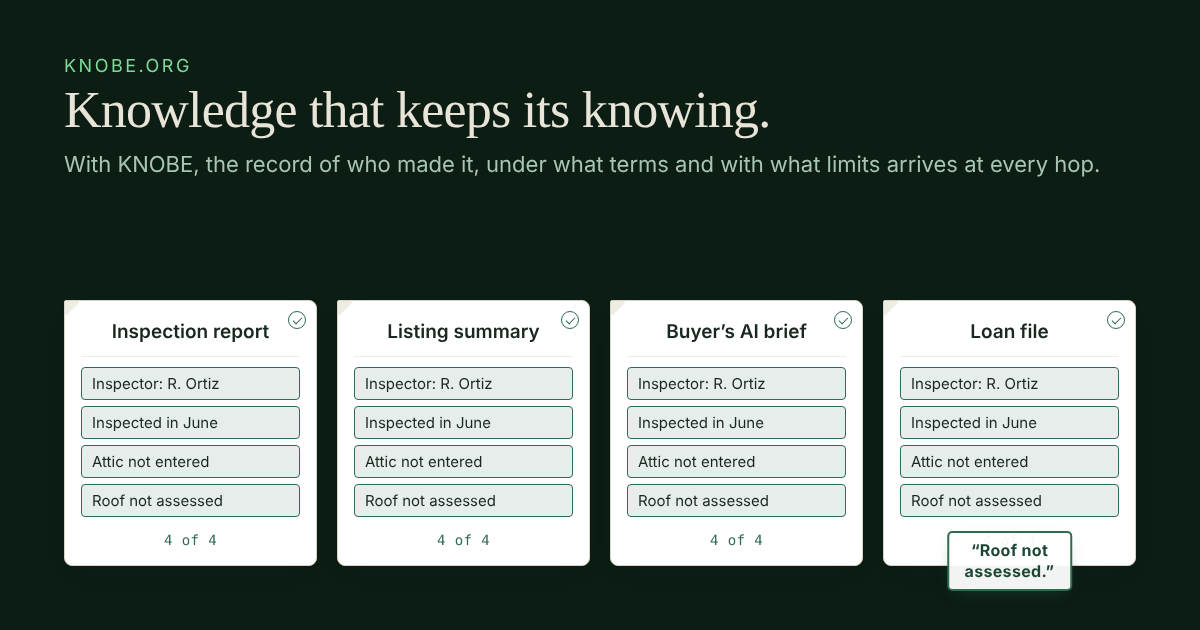
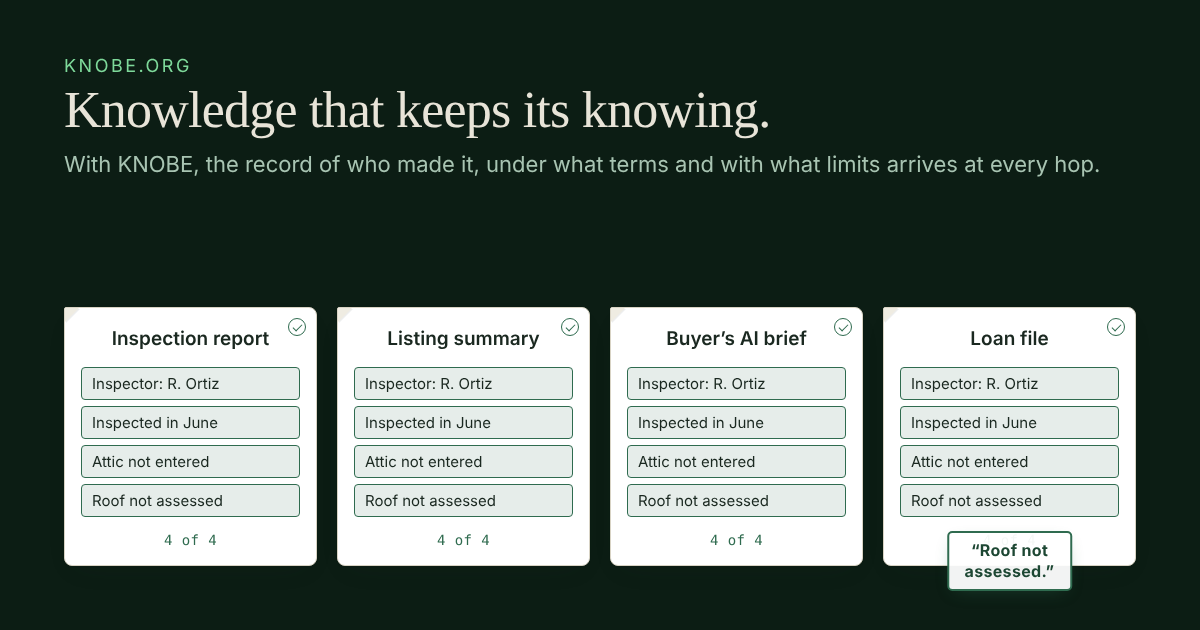
Scene realism pass: per-scene loss matrices, system labels, act reset on scene switch; hero grammar; equation gloss; per-door headings
Each scene now loses what a competent current system would actually lose:
the HR summary drops exactly one thing (the dispute); the working paper
keeps all four and the AI summary starts the loss; the citation survives
the research chain while the epistemics die. Stations are labeled with the
human-machine system they live in. Choosing a new scene reverts to the
Without act. Hero becomes 'Information is portable. The knowing that makes
it knowledge is not.' with a one-line gloss under the equation. Door pages
get differentiated headings.

Claude-Session: https://claude.ai/code/session_01DtjeGfW8HtYfQZWe1ngs6u

Changed region(s): [[0.0308, 0.4524, 0.9558, 0.573]]

diff --git a/site/stage.js b/site/stage.js
@@ -1,38 +1,48 @@
-/* knobe.org: the four-station illustration. Three scenes, two acts each.
-   knobeStage(root, { scenes: KNOBE_SCENES, start: 'home' })
-   Without KNOBE: station 0 keeps all four conditions, station 1 keeps the first two, stations 2 and 3 keep none.
-   With KNOBE: all four at every station, with a seal. */
+/* knobe.org: the four-station illustration. Five scenes, two acts each.
+   knobeStage(root, { start: 'home' })
+   Each scene carries its own loss matrix (keeps): what a competent current
+   system would realistically preserve at each station, act one. Act two
+   (With KNOBE) keeps everything and seals each station. */
 var KNOBE_SCENES=[
-  { key:'home', label:'A house', stations:['Inspection report','Listing summary','Buyer\u2019s AI brief','Loan file'],
+  { key:'home', label:'A house', stations:['Inspection report','Listing summary','Buyer’s AI brief','Loan file'],
+    systems:['report software','listing platform','AI assistant','loan file system'],
     chips:['Inspector: R. Ortiz','Inspected in June','Attic not entered','Roof not assessed'],
-    caption:'A home inspector writes up a house, with two limits on the record: the attic was not entered, the roof was not assessed. The listing agent summarizes the report. The buyer asks an AI for a brief. The brief goes into the loan file. Every step was reasonable. By the fourth, nobody knows the roof was never looked at.',
-    verdicts:{ without:'\u201cRoof in good condition.\u201d', withk:'\u201cRoof not assessed. Attic not entered.\u201d' } },
-  { key:'work', label:'A job', stations:['Manager\u2019s notes','HR summary','AI-drafted reference','Hiring decision'],
+    keeps:[[1,1,1,1],[1,1,0,0],[0,1,0,0],[0,0,0,0]],
+    caption:'A home inspector writes up a house, with two limits on the record: the attic was not entered, the roof was not assessed. The listing summary keeps the inspector and the date. The buyer’s AI brief keeps only the date. The loan file keeps nothing. Every step was reasonable. By the fourth, nobody knows the roof was never looked at.',
+    verdicts:{ without:'“Roof in good condition.”', withk:'“Roof not assessed. Attic not entered.”' } },
+  { key:'work', label:'A job', stations:['Manager’s notes','HR summary','AI-drafted reference','Hiring decision'],
+    systems:['notes app','HR system','AI writing tool','hiring committee'],
     chips:['Written by Priya','One quarter only','Disputed by Sam','Draft, not final'],
-    caption:'A manager writes notes on one quarter of someone\u2019s work. The notes are a draft, and the employee disputes a line. HR summarizes them. An AI drafts a reference from the summary. A hiring decision rests on the reference. Every step was reasonable. By the fourth, a disputed draft about one quarter reads as a settled judgment about a person.',
-    verdicts:{ without:'\u201cConsistently underperforms.\u201d', withk:'\u201cDraft. One quarter. Disputed.\u201d' } },
+    keeps:[[1,1,1,1],[1,1,0,1],[1,0,0,0],[0,0,0,0]],
+    caption:'A manager writes notes on one quarter of someone’s work. The notes are a draft, and the employee disputes a line. The HR summary is competent and loses exactly one thing: the dispute. The AI-drafted reference keeps only the author’s name. A hiring decision rests on the reference. By the fourth, a disputed draft about one quarter reads as a settled judgment about a person.',
+    verdicts:{ without:'“Consistently underperforms.”', withk:'“Draft. One quarter. Disputed.”' } },
   { key:'product', label:'A product', stations:['Lab test memo','Spec sheet','Retailer page','Support chatbot'],
-    chips:['Engineer: M. Lin','Batch 7 only','Tested at 20\u00b0C','Not for outdoor use'],
-    caption:'An engineer tests a device and writes a memo: batch 7 only, tested at 20\u00b0C, not for outdoor use. The spec sheet keeps the engineer\u2019s name and the batch. The retailer page keeps neither limit. The support chatbot, answering from the retailer page, tells a customer it is fine outdoors. Every step was reasonable. The chatbot was not wrong about the page it read; the page had already lost the knowing.',
-    verdicts:{ without:'\u201cYes, fine for outdoor use.\u201d', withk:'\u201cNot rated for outdoor use.\u201d' } },
+    systems:['lab system','product database','retail CMS','support bot'],
+    chips:['Engineer: M. Lin','Batch 7 only','Tested at 20°C','Not for outdoor use'],
+    keeps:[[1,1,1,1],[0,1,1,1],[0,0,0,0],[0,0,0,0]],
+    caption:'An engineer tests a device and writes a memo: batch 7 only, tested at 20°C, not for outdoor use. The spec sheet keeps every limit and drops only the engineer. The retailer page keeps none of it. The support chatbot, answering from the retailer page, tells a customer it is fine outdoors. The chatbot was not wrong about the page it read; the page had already lost the knowing.',
+    verdicts:{ without:'“Yes, fine for outdoor use.”', withk:'“Not rated for outdoor use.”' } },
   { key:'research', label:'A study', stations:['Pilot dataset','Working paper','AI literature summary','Policy brief'],
+    systems:['data repository','preprint server','AI research tool','policy office'],
     chips:['Lead: Dr. A. Okafor','Pilot, n = 42','Not yet peer reviewed','Correlation, not cause'],
-    caption:'A research team runs a pilot: 42 participants, correlational, not yet peer reviewed. The working paper keeps the lead author and the sample size. An AI literature summary keeps neither caveat. A policy brief cites the summary. Every step was reasonable. By the fourth, a 42-person correlation reads as settled evidence that the treatment works.',
-    verdicts:{ without:'\u201cThe treatment works.\u201d', withk:'\u201cPilot, n = 42. Correlation only.\u201d' } },
+    keeps:[[1,1,1,1],[1,1,1,1],[1,1,0,0],[1,0,0,0]],
+    caption:'A research team runs a pilot: 42 participants, correlational, not yet peer reviewed. The working paper, as good papers do, carries all four. The AI literature summary keeps the citation and the sample size; both caveats are gone. The policy brief keeps only the citation. The name survives the whole chain. The epistemics do not, and a 42-person correlation reads as settled evidence that the treatment works.',
+    verdicts:{ without:'“The treatment works.”', withk:'“Pilot, n = 42. Correlation only.”' } },
   { key:'agent', label:'An agent', stations:['Pricing memo','Agent A digest','Agent B proposal','Automated reply'],
+    systems:['shared drive','knowledge base','agent context','email automation'],
     chips:['From: finance team','Draft, not approved','Internal only','Expires Dec 31'],
-    caption:'A finance team drafts a pricing memo: a draft, internal only, expiring December 31. One agent digests it into the knowledge base. A second agent drafts a proposal from the digest. An automated reply sends a customer the number. After the memo, no person touches the chain. The quote is confident, current, and wrong in three ways the memo itself declared.',
-    verdicts:{ without:'\u201c$14 per seat, locked in.\u201d', withk:'\u201cDraft. Internal. Expires Dec 31.\u201d' } }
+    keeps:[[1,1,1,1],[1,0,1,0],[1,0,0,0],[0,0,0,0]],
+    caption:'A finance team drafts a pricing memo: a draft, internal only, expiring December 31. Ingestion keeps the metadata it can see, the sender and the audience, and loses the two flags that lived in the prose: draft and expiry. The second agent keeps the source line. The reply keeps nothing. After the memo, no person touches the chain, and the quote that reaches the customer is confident, current, and wrong in three ways the memo itself declared.',
+    verdicts:{ without:'“$14 per seat, locked in.”', withk:'“Draft. Internal. Expires Dec 31.”' } }
 ];
 function knobeStage(root, opts){
-  var HOP=1800, SLIDE=600, scenes=opts.scenes||KNOBE_SCENES;
+  var HOP=1800, SLIDE=600, scenes=(opts&&opts.scenes)||KNOBE_SCENES;
   var reduce=window.matchMedia('(prefers-reduced-motion: reduce)').matches;
   var act='without', timers=[], atEnd=false, played=false, scene=null;
   function esc(s){ return String(s).replace(/&/g,'&amp;').replace(/</g,'&lt;'); }
-  function keep(i,k){ return act==='with' ? true : (i===0 ? true : (i===1 ? k<2 : false)); }
+  function keep(i,k){ return act==='with' ? true : scene.keeps[i][k]===1; }
   function later(fn,ms){ timers.push(setTimeout(fn,ms)); }
   function clear(){ timers.forEach(clearTimeout); timers=[]; }
-  // shell: scene tabs, act toggle, stage, caption
   var h='<div class="stage-controls"><div class="seg scenes" role="group" aria-label="Choose a scene">';
   scenes.forEach(function(s){ h+='<button type="button" data-scene="'+esc(s.key)+'" aria-pressed="false">'+esc(s.label)+'</button>'; });
   h+='</div><div class="seg acts" role="group" aria-label="Choose an act"><button type="button" class="act-without" aria-pressed="true">Without KNOBE</button><button type="button" class="act-with" aria-pressed="false">With KNOBE</button></div>'+
@@ -42,15 +52,17 @@ function knobeStage(root, opts){
   var bWithout=root.querySelector('.act-without'), bWith=root.querySelector('.act-with'), replay=root.querySelector('.replay');
   var sceneBtns=[].slice.call(root.querySelectorAll('[data-scene]'));
   var stage, stations, traveler;
+  function counts(){ return scene.keeps.map(function(row){ return row.reduce(function(a,b){return a+b;},0); }); }
   function build(){
-    var aria='Four stations: '+scene.stations.join(', ')+'. Without KNOBE, the four conditions attached at the first station ('+scene.chips.join(', ')+') fall away by the third. With KNOBE all four arrive at every station.';
+    var cs=counts();
+    var aria='Four stations, each a different human and machine system: '+scene.stations.map(function(n,i){return n+' ('+scene.systems[i]+')';}).join(', ')+'. Without KNOBE, of the four conditions attached at the start ('+scene.chips.join(', ')+'), the counts surviving at each station are '+cs.join(', ')+', and the run ends with the last station asserting '+scene.verdicts.without+' With KNOBE all four arrive at every station, the file carries a seal, and the run ends '+scene.verdicts.withk;
     var s='<div class="stage" role="img" aria-label="'+esc(aria)+'"><div class="traveler" aria-hidden="true"></div>';
     scene.stations.forEach(function(name,i){
-      s+='<div class="station" data-i="'+i+'"><div class="seal" aria-hidden="true"></div><div class="name">'+esc(name)+'</div><div class="chips">';
+      s+='<div class="station" data-i="'+i+'"><div class="seal" aria-hidden="true"></div><div class="name">'+esc(name)+'</div><div class="sys">'+esc(scene.systems[i])+'</div><div class="chips">';
       scene.chips.forEach(function(c,k){ s+='<div class="chip" data-k="'+k+'" style="--r:'+[-7,5,-4,8][k]+'deg">'+esc(c)+'</div>'; });
       s+='</div><div class="count">'+(i===0?'4 of 4':'&nbsp;')+'</div>'+(i===3?'<div class="stamp" aria-hidden="true"></div>':'')+'</div>';
     });
-    s+='</div><p class="vh">'+esc('Without KNOBE: four of four conditions at '+scene.stations[0]+', two of four at '+scene.stations[1]+', none at '+scene.stations[2]+' or '+scene.stations[3]+', and the run ends with the last station asserting '+scene.verdicts.without+' With KNOBE: four of four at every station, the file carries a seal, and the run ends '+scene.verdicts.withk)+'</p>';
+    s+='</div>';
     slot.innerHTML=s; cap.textContent=scene.caption;
     stage=slot.querySelector('.stage'); stations=[].slice.call(stage.querySelectorAll('.station')); traveler=stage.querySelector('.traveler');
     sceneBtns.forEach(function(b){ b.setAttribute('aria-pressed', b.getAttribute('data-scene')===scene.key); });
@@ -88,14 +100,15 @@ function knobeStage(root, opts){
     if(reduce){ finalFrame(); return; }
     for(var i=1;i<4;i++){ (function(i){ later(function(){ moveTo(i); later(function(){ arrive(i); if(i===3) later(function(){ stamp(true); atEnd=true; },SLIDE+700); },SLIDE); }, i*HOP); })(i); }
   }
-  function chooseAct(a){ act=a; bWithout.setAttribute('aria-pressed',a==='without'); bWith.setAttribute('aria-pressed',a==='with'); play(); }
-  function chooseScene(key){ scene=scenes.filter(function(s){ return s.key===key; })[0]||scenes[0]; build(); play(); }
+  function setActButtons(){ bWithout.setAttribute('aria-pressed',act==='without'); bWith.setAttribute('aria-pressed',act==='with'); }
+  function chooseAct(a){ act=a; setActButtons(); play(); }
+  function chooseScene(key){ scene=scenes.filter(function(s){ return s.key===key; })[0]||scenes[0]; act='without'; setActButtons(); build(); play(); }
   bWithout.addEventListener('click',function(){ chooseAct('without'); });
   bWith.addEventListener('click',function(){ chooseAct('with'); });
   replay.addEventListener('click',play);
   sceneBtns.forEach(function(b){ b.addEventListener('click',function(){ chooseScene(b.getAttribute('data-scene')); }); });
   window.addEventListener('resize',function(){ if(stage && !timers.length) moveTo(atEnd?3:0); });
-  scene=scenes.filter(function(s){ return s.key===opts.start; })[0]||scenes[0]; build();
+  scene=scenes.filter(function(s){ return s.key===(opts&&opts.start); })[0]||scenes[0]; build();
   if('IntersectionObserver' in window && !reduce){
     var io=new IntersectionObserver(function(es){ es.forEach(function(e){ if(e.isIntersecting && !played){ played=true; play(); io.disconnect(); } }); },{threshold:.4});
     resetStage(); io.observe(stage);

diff --git a/site/front.css b/site/front.css
@@ -67,6 +67,7 @@ header.hero .btn-primary:hover{background:var(--night-accent);color:var(--night)
 header.hero .btn-ghost{border-color:rgba(207,230,214,.35);color:var(--night-ink)}
 header.hero .btn-ghost:hover{border-color:var(--night-accent);color:var(--night-accent)}
 header.hero .cta-row .alt{color:var(--night-soft)}
+header.hero .gloss{color:var(--night-soft);margin:-24px 0 36px;font-size:.88rem}
 header.hero .cta-row .alt a{color:var(--night-soft)}
 header.hero .equation{color:var(--night-ink)}
 header.hero .equation .k{color:var(--night-accent)}
@@ -99,9 +100,10 @@ header.hero .equation .op{color:var(--night-soft)}
 .stage-controls .scenes{margin-right:8px}
 .stage-controls .replay{margin-left:auto;background:none;border:0;color:var(--moss);cursor:pointer;font-family:var(--sans);font-size:.88rem;text-decoration:underline;text-underline-offset:2px}
 .stage{position:relative;display:grid;grid-template-columns:repeat(4,1fr);gap:16px;align-items:start;padding-bottom:34px}
-.station{position:relative;border:1px solid var(--line);border-radius:2px 8px 8px 8px;background:#fff;padding:16px 14px 12px;min-height:208px;box-shadow:0 1px 2px rgba(26,40,32,.06),0 10px 26px -14px rgba(26,40,32,.22)}
+.station{position:relative;border:1px solid var(--line);border-radius:2px 8px 8px 8px;background:#fff;padding:16px 14px 12px;min-height:226px;box-shadow:0 1px 2px rgba(26,40,32,.06),0 10px 26px -14px rgba(26,40,32,.22)}
 .station::before{content:"";position:absolute;top:0;left:0;width:0;height:0;border-style:solid;border-width:14px 14px 0 0;border-color:var(--paper-warm) transparent transparent transparent;filter:drop-shadow(1px 1px 0 rgba(26,40,32,.08))}
-.station .name{padding-bottom:8px;border-bottom:1px solid var(--paper-warm)}
+.station .name{padding-bottom:2px}
+.station .sys{font-family:var(--sans);font-size:.68rem;letter-spacing:.04em;color:var(--ink-faint);text-align:center;padding-bottom:8px;border-bottom:1px solid var(--paper-warm);margin-bottom:0}
 .station .name{font-family:var(--sans);font-size:.95rem;font-weight:600;color:var(--ink);margin-bottom:10px;text-align:center}
 .station .chips{display:flex;flex-direction:column;gap:6px;min-height:114px}
 .chip{font-family:var(--sans);font-size:.78rem;line-height:1;padding:6px 8px;border-radius:4px;border:1px solid var(--line);color:var(--ink-faint);background:transparent;transition:transform .7s cubic-bezier(.55,0,1,.45),opacity .7s ease-in,background .3s,color .3s,border-color .3s;white-space:nowrap;overflow:hidden;text-overflow:ellipsis}
@@ -130,6 +132,7 @@ header.hero .equation .op{color:var(--night-soft)}
 @media(max-width:640px){.stage-controls{gap:8px}.stage-controls .replay{margin-left:0}}
 @media(max-width:760px){
   .stage{grid-template-columns:1fr;gap:14px;max-width:360px;margin:0 auto}
+  .station .sys{text-align:left;border-bottom:none;padding-bottom:0}
   .stamp{bottom:-26px}
   .station{min-height:0;display:grid;grid-template-columns:1fr auto;gap:4px 14px;align-items:center}
   .station .name{text-align:left;margin:0;grid-column:1}

diff --git a/site/index.html b/site/index.html
@@ -69,9 +69,10 @@
 <header class="hero">
   <div class="wrap">
     <div class="eyebrow">Open protocol · Plain text · Verifies in your browser</div>
-    <h1>Information has always been portable. The knowing that makes it knowledge is not.</h1>
+    <h1>Information is portable. The knowing that makes it knowledge is not.</h1>
     <p class="lede">A <code>.knobe.md</code> is a plain-text file: portable, interoperable, readable by people, machines and screen readers. But a portable file is not yet portable knowledge. A KNOBE also carries the knowing, who made it, under what terms, with what limits, so what arrives downstream is knowledge rather than loose content.</p>
     <p class="equation" aria-label="known plus knowing equals knowledge"><span class="k">known</span><span class="op">+</span><span class="k">knowing</span><span class="op">=</span>knowledge</p>
+    <p class="quiet gloss">The known: the information in front of you. The knowing: who made it, under what terms, with what limits.</p>
     <div class="cta-row">
       <a class="btn btn-primary" href="#see">See how it happens</a>
       <a class="btn btn-ghost" href="/agent">Create a sealed file</a>

diff --git a/site/build.html b/site/build.html
@@ -55,7 +55,7 @@
   </div>
 </header>
 <section class="warm" aria-labelledby="see-h">
-  <div class="wrap"><h2 id="see-h">Watch the knowing fall away.</h2><p class="quiet">Five scenes, one pattern. Pick any of them.</p></div>
+  <div class="wrap"><h2 id="see-h">The pattern, in an agent chain</h2><p class="quiet">Five scenes, one pattern; this door opens on the agents.</p></div>
   <div class="stage-wrap" id="stage-root"></div>
 </section>
 <section>

diff --git a/site/decide.html b/site/decide.html
@@ -55,7 +55,7 @@
   </div>
 </header>
 <section class="warm" aria-labelledby="see-h">
-  <div class="wrap"><h2 id="see-h">Watch the knowing fall away.</h2><p class="quiet">Five scenes, one pattern. Pick any of them.</p></div>
+  <div class="wrap"><h2 id="see-h">The pattern, in a hiring decision</h2><p class="quiet">Five scenes, one pattern; this door opens on the job.</p></div>
   <div class="stage-wrap" id="stage-root"></div>
 </section>
 <section>

diff --git a/site/make.html b/site/make.html
@@ -54,7 +54,7 @@
   </div>
 </header>
 <section class="warm" aria-labelledby="see-h">
-  <div class="wrap"><h2 id="see-h">Watch the knowing fall away.</h2><p class="quiet">Five scenes, one pattern. Pick any of them.</p></div>
+  <div class="wrap"><h2 id="see-h">The pattern, in a study</h2><p class="quiet">Five scenes, one pattern; this door opens on the study.</p></div>
   <div class="stage-wrap" id="stage-root"></div>
 </section>
 <section>
